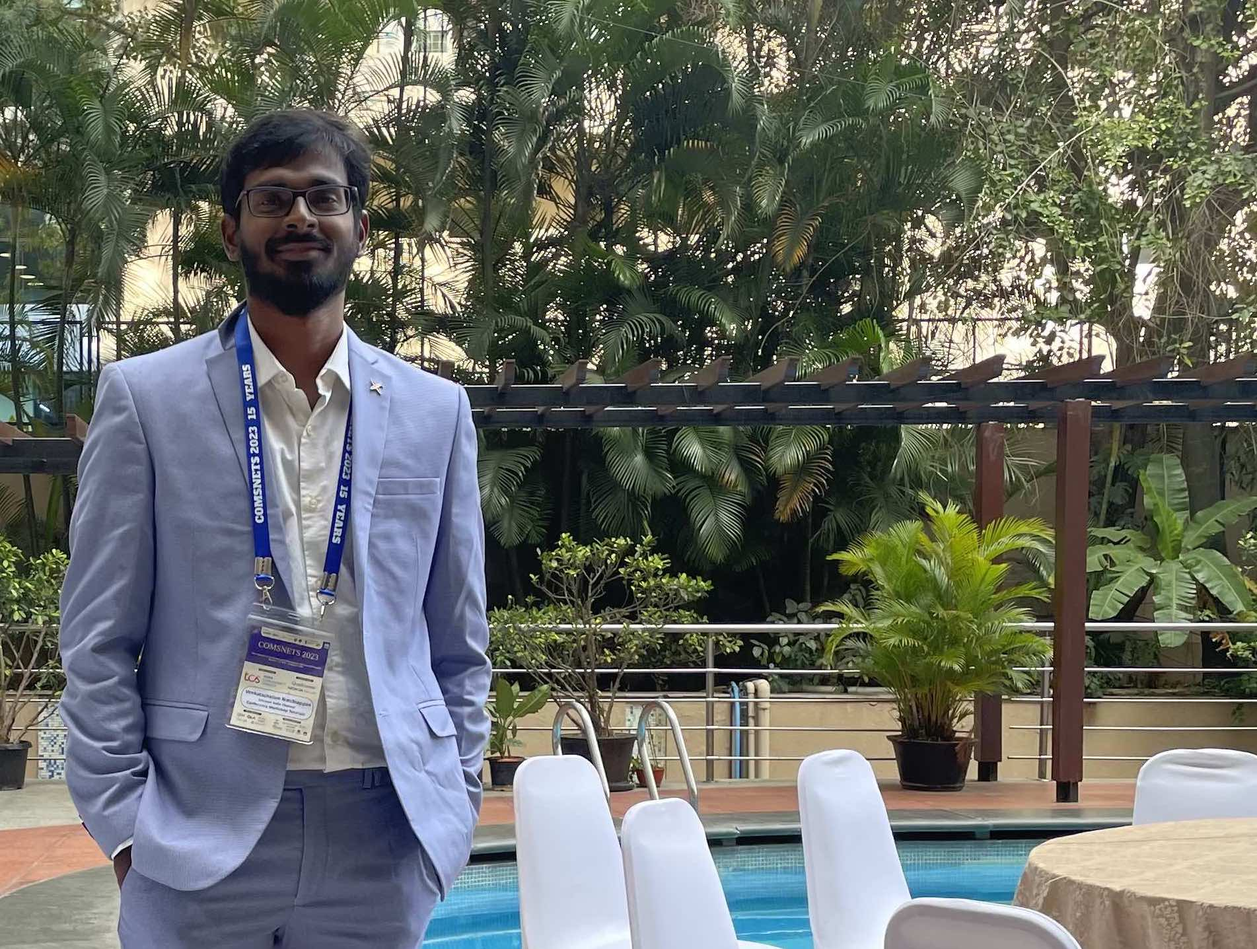
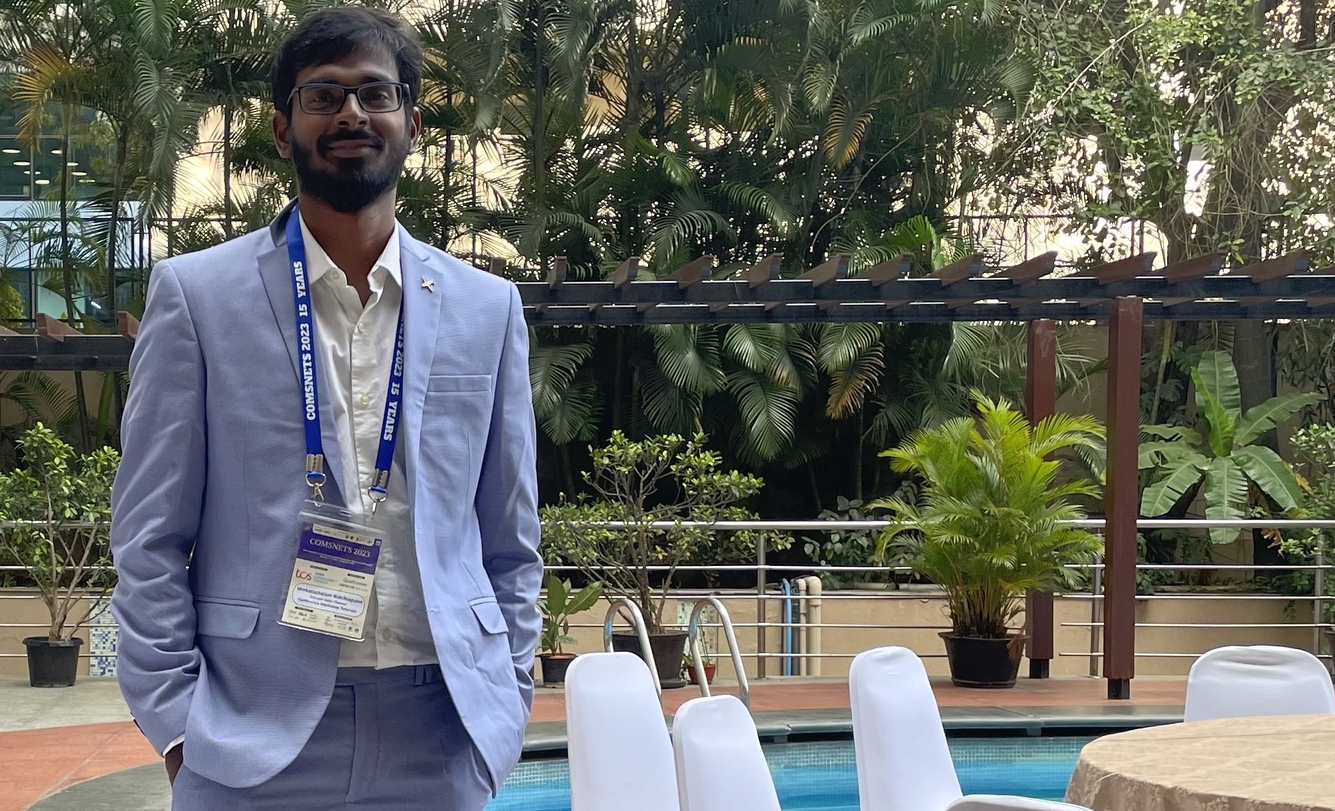
more cropping

diff --git a/themes/hugo-theme-console/layouts/index.html b/themes/hugo-theme-console/layouts/index.html
@@ -1,4 +1,5 @@
 {{ define "main" }}
+<meta name="google-site-verification" content="_rTYRzlP5qp9SsqxZc0W6y4Hrs_dWWWo0TK_ju47PD8" />
 
 <h1>Hi!!!!</h1>
 

diff --git a/content/photos/Trekking/index.md b/content/photos/Trekking/index.md
@@ -1,0 +1,7 @@
++++
+image = "IMG.jpg"
+date = "2017-12-17"
+title = "Trekking"
+type = "gallery"
++++
+Trekking in Kudremukh, during Dec 2017.

diff --git a/content/photos/profile_picture/index.md b/content/photos/profile_picture/index.md
@@ -1,7 +1,6 @@
 +++
 image = "dp.jpg"
 date = "2023-06-20"
-title = "personal"
+title = "profile_picture"
 type = "gallery"
 +++
-check
